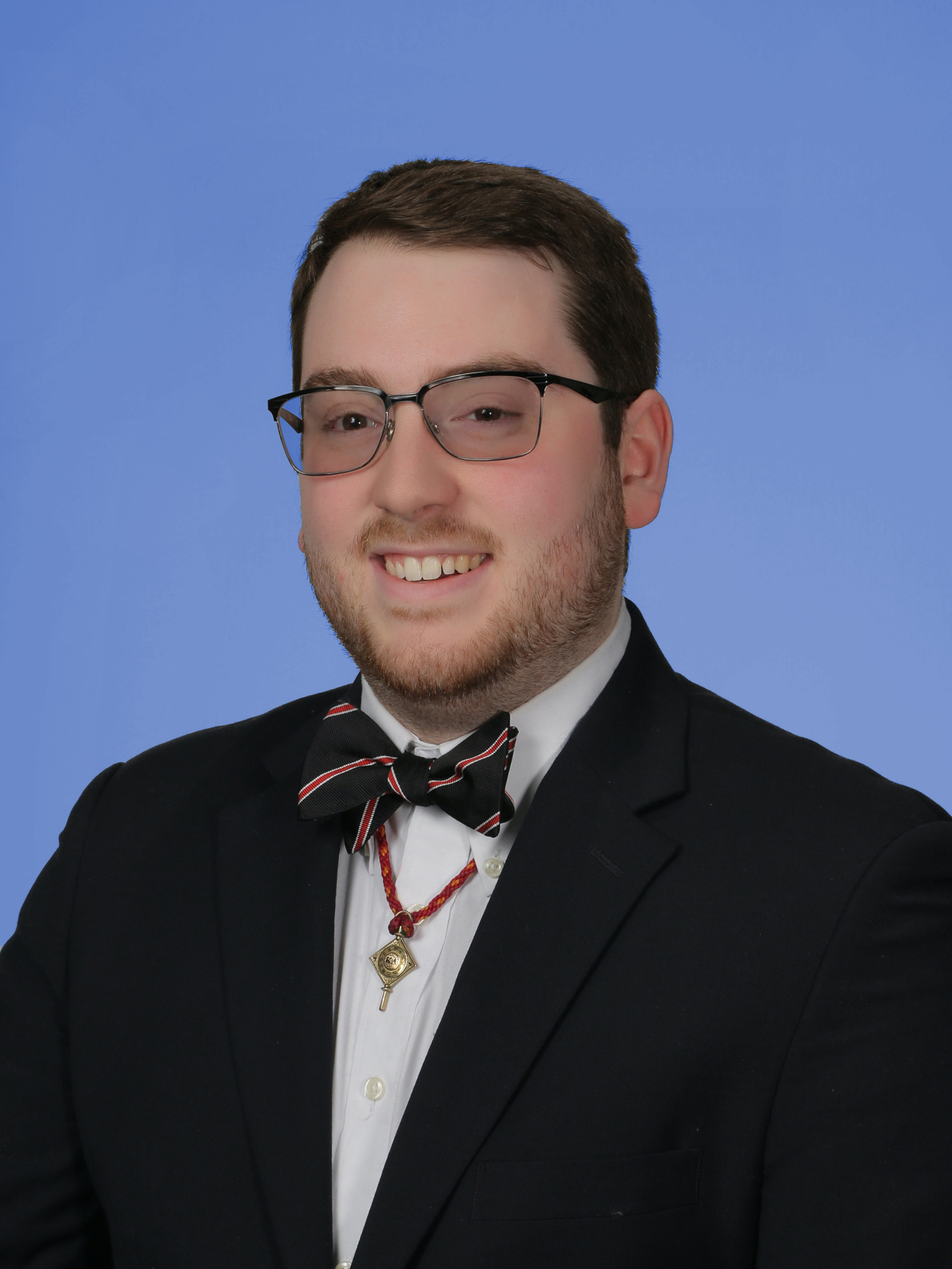
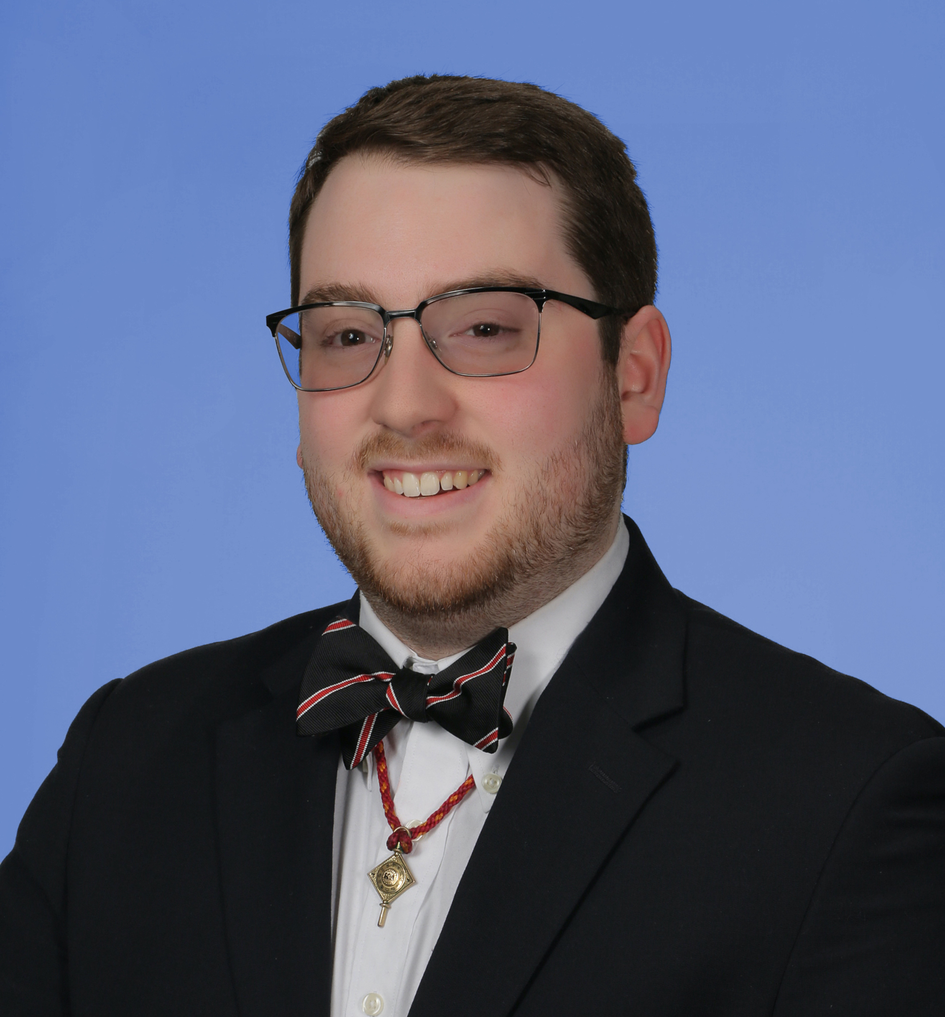
Starting to work on home page

Changed region(s): [[0.0, 0.0619, 1.0, 1.0]]

diff --git a/_site/index.html b/_site/index.html
@@ -6,7 +6,7 @@
     <meta name="viewport" content="width=device-width, initial-scale=1">
 
 <!-- Begin Jekyll SEO tag v2.6.1 -->
-<title>Home | Your awesome title</title>
+<title>Home | Jacob Rothschild</title>
 <meta name="generator" content="Jekyll v3.8.5" />
 <meta property="og:title" content="Home" />
 <meta property="og:locale" content="en_US" />
@@ -14,14 +14,17 @@
 <meta property="og:description" content="Write an awesome description for your new site here. You can edit this line in _config.yml. It will appear in your document head meta (for Google search results) and in your feed.xml site description." />
 <link rel="canonical" href="http://localhost:4000/" />
 <meta property="og:url" content="http://localhost:4000/" />
-<meta property="og:site_name" content="Your awesome title" />
+<meta property="og:site_name" content="Jacob Rothschild" />
 <meta property="og:type" content="article" />
 <meta property="article:published_time" content="2015-01-01T00:00:00-05:00" />
 <script type="application/ld+json">
-{"name":"Your awesome title","description":"Write an awesome description for your new site here. You can edit this line in _config.yml. It will appear in your document head meta (for Google search results) and in your feed.xml site description.","@type":"WebSite","url":"http://localhost:4000/","headline":"Home","dateModified":"2015-01-01T00:00:00-05:00","datePublished":"2015-01-01T00:00:00-05:00","@context":"https://schema.org"}</script>
+{"name":"Jacob Rothschild","description":"Write an awesome description for your new site here. You can edit this line in _config.yml. It will appear in your document head meta (for Google search results) and in your feed.xml site description.","@type":"WebSite","url":"http://localhost:4000/","publisher":{"@type":"Organization","logo":{"@type":"ImageObject","url":"http://localhost:4000/assets/images/CompositePhotoBlue.jpg"}},"headline":"Home","dateModified":"2015-01-01T00:00:00-05:00","datePublished":"2015-01-01T00:00:00-05:00","@context":"https://schema.org"}</script>
 <!-- End Jekyll SEO tag -->
 
     <link rel="stylesheet" href="/assets/css/style.css?v=">
+    <link rel="stylesheet" href="https://maxcdn.bootstrapcdn.com/bootstrap/3.4.0/css/bootstrap.min.css">
+<script src="https://ajax.googleapis.com/ajax/libs/jquery/3.4.0/jquery.min.js"></script>
+<script src="https://maxcdn.bootstrapcdn.com/bootstrap/3.4.0/js/bootstrap.min.js"></script>
     <!--[if lt IE 9]>
     <script src="//cdnjs.cloudflare.com/ajax/libs/html5shiv/3.7.3/html5shiv.min.js"></script>
     <![endif]-->
@@ -46,8 +49,10 @@
 </nav>
 
         <br>
-        <h1><a href="http://localhost:4000/">Your awesome title</a></h1>
+        <h1><a href="http://localhost:4000/">Jacob Rothschild</a></h1>
 
+        
+          <img src="/assets/images/CompositePhotoBlue.jpg" alt="Logo" class="img-rounded" />
         
 
         <p>Write an awesome description for your new site here. You can edit this line in _config.yml. It will appear in your document head meta (for Google search results) and in your feed.xml site description.</p>

diff --git a/_layouts/home.html b/_layouts/home.html
@@ -7,6 +7,9 @@
 
 {% seo %}
     <link rel="stylesheet" href="{{ "/assets/css/style.css?v=" | append: site.github.build_revision | relative_url }}">
+    <link rel="stylesheet" href="https://maxcdn.bootstrapcdn.com/bootstrap/3.4.0/css/bootstrap.min.css">
+<script src="https://ajax.googleapis.com/ajax/libs/jquery/3.4.0/jquery.min.js"></script>
+<script src="https://maxcdn.bootstrapcdn.com/bootstrap/3.4.0/js/bootstrap.min.js"></script>
     <!--[if lt IE 9]>
     <script src="//cdnjs.cloudflare.com/ajax/libs/html5shiv/3.7.3/html5shiv.min.js"></script>
     <![endif]-->
@@ -19,7 +22,7 @@
         <h1><a href="{{ "/" | absolute_url }}">{{ site.title | default: site.github.repository_name }}</a></h1>
 
         {% if site.logo %}
-          <img src="{{site.logo | relative_url}}" alt="Logo" />
+          <img src="{{site.logo | relative_url}}" alt="Logo" class="img-rounded" />
         {% endif %}
 
         <p>{{ site.description | default: site.github.project_tagline }}</p>
